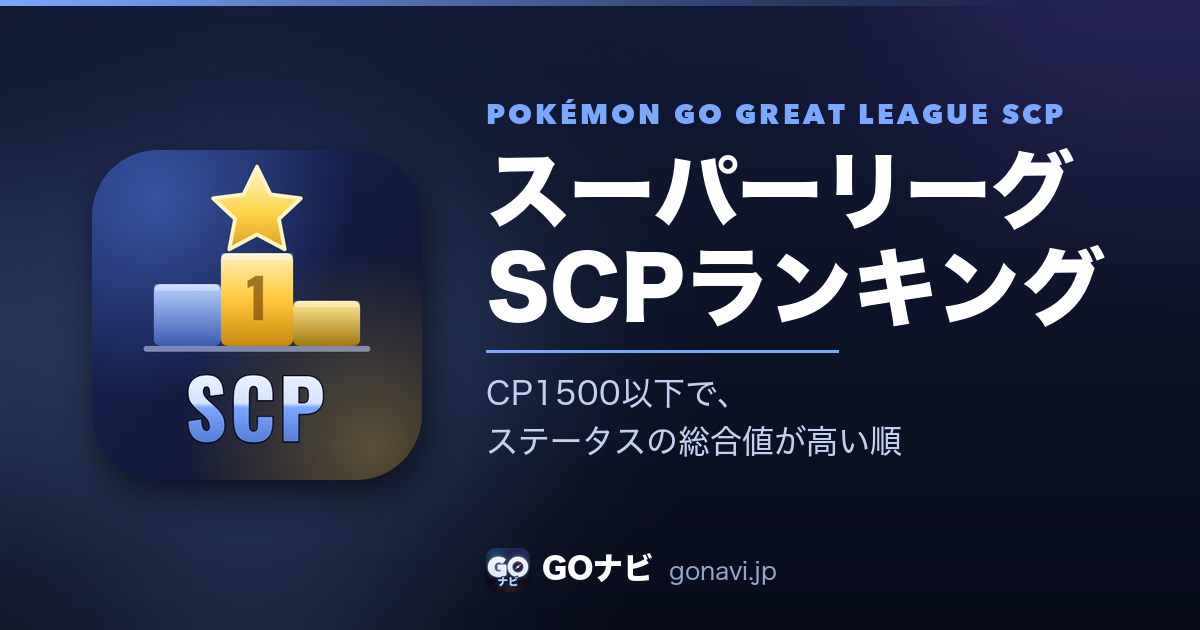
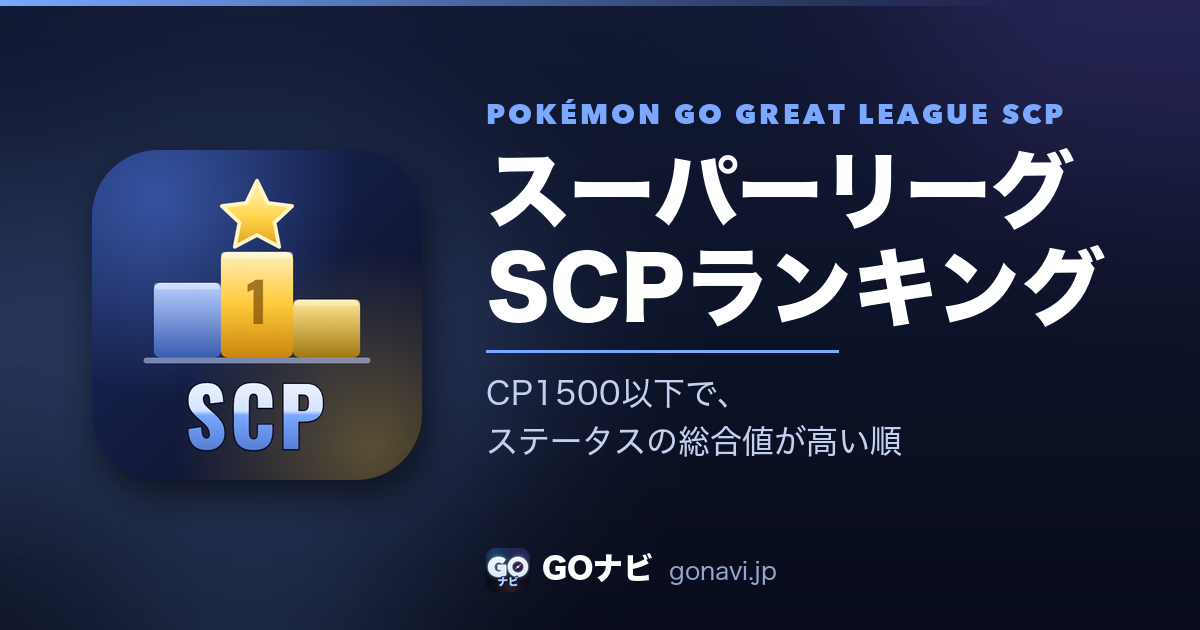
fix(SCPランキング): アイコンの星を小さく・表彰台を長くし、全体を上下の真ん中へ（タダシさん指示）

diff --git a/scratchpad/icon_scp.html b/scratchpad/icon_scp.html
@@ -26,19 +26,22 @@ const ICON = `<defs>
   <g clip-path="url(#cl)">
   <rect width="512" height="512" fill="url(#bg)"/><rect width="512" height="512" fill="url(#ga)"/><rect width="512" height="512" fill="url(#gb)"/>
   <!-- 表彰台（台の上面に光・下に影） -->
-  <g transform="translate(0,-6)">
-    <rect x="96" y="214" width="104" height="96" rx="10" fill="url(#p2)"/>
-    <rect x="312" y="240" width="104" height="70" rx="10" fill="url(#p3)"/>
-    <rect x="200" y="166" width="112" height="144" rx="10" fill="url(#p1)"/>
-    <rect x="96" y="214" width="104" height="10" rx="5" fill="#fff" fill-opacity=".35"/>
-    <rect x="312" y="240" width="104" height="10" rx="5" fill="#fff" fill-opacity=".35"/>
-    <rect x="200" y="166" width="112" height="10" rx="5" fill="#fff" fill-opacity=".45"/>
-    <text x="256" y="270" font-family="Oswald" font-weight="700" font-size="84" text-anchor="middle" fill="#7a4c06" fill-opacity=".7">1</text>
-    <path transform="translate(0,-26)" d="M256 58l21 43 47 6-34 32 9 47-43-23-43 23 9-47-34-32 47-6z" fill="url(#st)" stroke="#fff4c4" stroke-width="6" stroke-linejoin="round"/>
+  <!-- 全体（星・表彰台・SCP）を上下の真ん中へ: 星の上端36〜文字の下端452の中心を256にそろえる＝12下げる（2026-11-12タダシさん指示） -->
+  <g transform="translate(0,12)">
+    <!-- 表彰台（台の上面に光・下に影）。台は20ずつ長く -->
+    <rect x="96" y="194" width="104" height="116" rx="10" fill="url(#p2)"/>
+    <rect x="312" y="220" width="104" height="90" rx="10" fill="url(#p3)"/>
+    <rect x="200" y="146" width="112" height="164" rx="10" fill="url(#p1)"/>
+    <rect x="96" y="194" width="104" height="10" rx="5" fill="#fff" fill-opacity=".35"/>
+    <rect x="312" y="220" width="104" height="10" rx="5" fill="#fff" fill-opacity=".35"/>
+    <rect x="200" y="146" width="112" height="10" rx="5" fill="#fff" fill-opacity=".45"/>
+    <text x="256" y="258" font-family="Oswald" font-weight="700" font-size="84" text-anchor="middle" fill="#7a4c06" fill-opacity=".7">1</text>
+    <!-- 星は8割の大きさ・下端を1位の台の8上に -->
+    <path transform="translate(256,87) scale(.8) translate(-256,-122)" d="M256 58l21 43 47 6-34 32 9 47-43-23-43 23 9-47-34-32 47-6z" fill="url(#st)" stroke="#fff4c4" stroke-width="7.5" stroke-linejoin="round"/>
     <rect x="80" y="310" width="352" height="9" rx="4.5" fill="#c8d6ff" fill-opacity=".55"/>
+    <!-- SCP の文字（白→青の金属・濃紺のふち） -->
+    <text x="256" y="452" font-family="Oswald" font-weight="700" font-size="124" text-anchor="middle" fill="url(#tx)" stroke="#0a0c22" stroke-width="5" paint-order="stroke" letter-spacing="6">SCP</text>
   </g>
-  <!-- SCP の文字（白→青の金属・濃紺のふち） -->
-  <text x="256" y="452" font-family="Oswald" font-weight="700" font-size="124" text-anchor="middle" fill="url(#tx)" stroke="#0a0c22" stroke-width="5" paint-order="stroke" letter-spacing="6">SCP</text>
   </g>`;
 const prev = /prev=1/.test(location.search);
 if (prev) document.body.className = 'prev';
